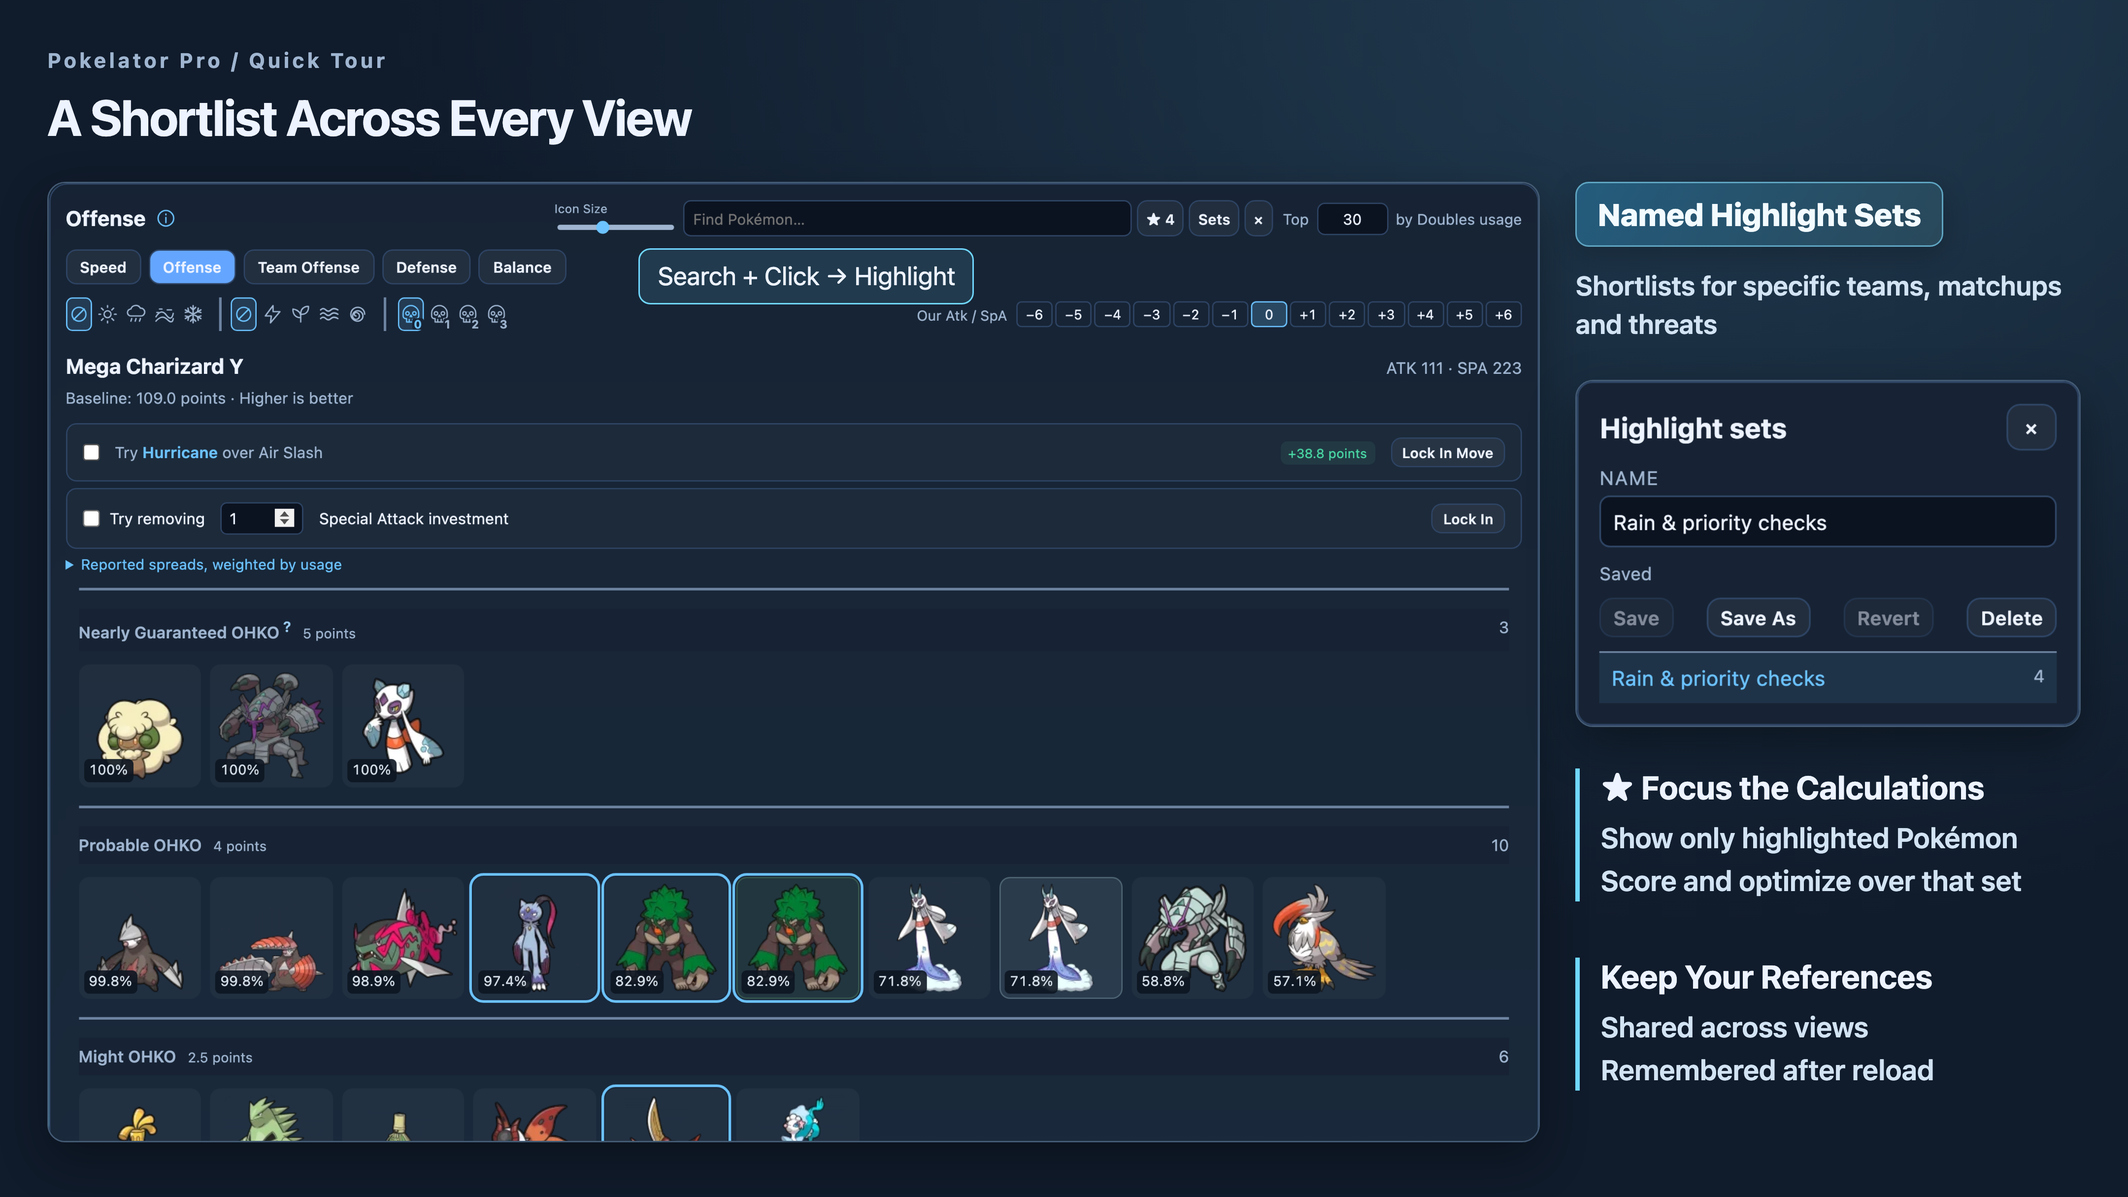
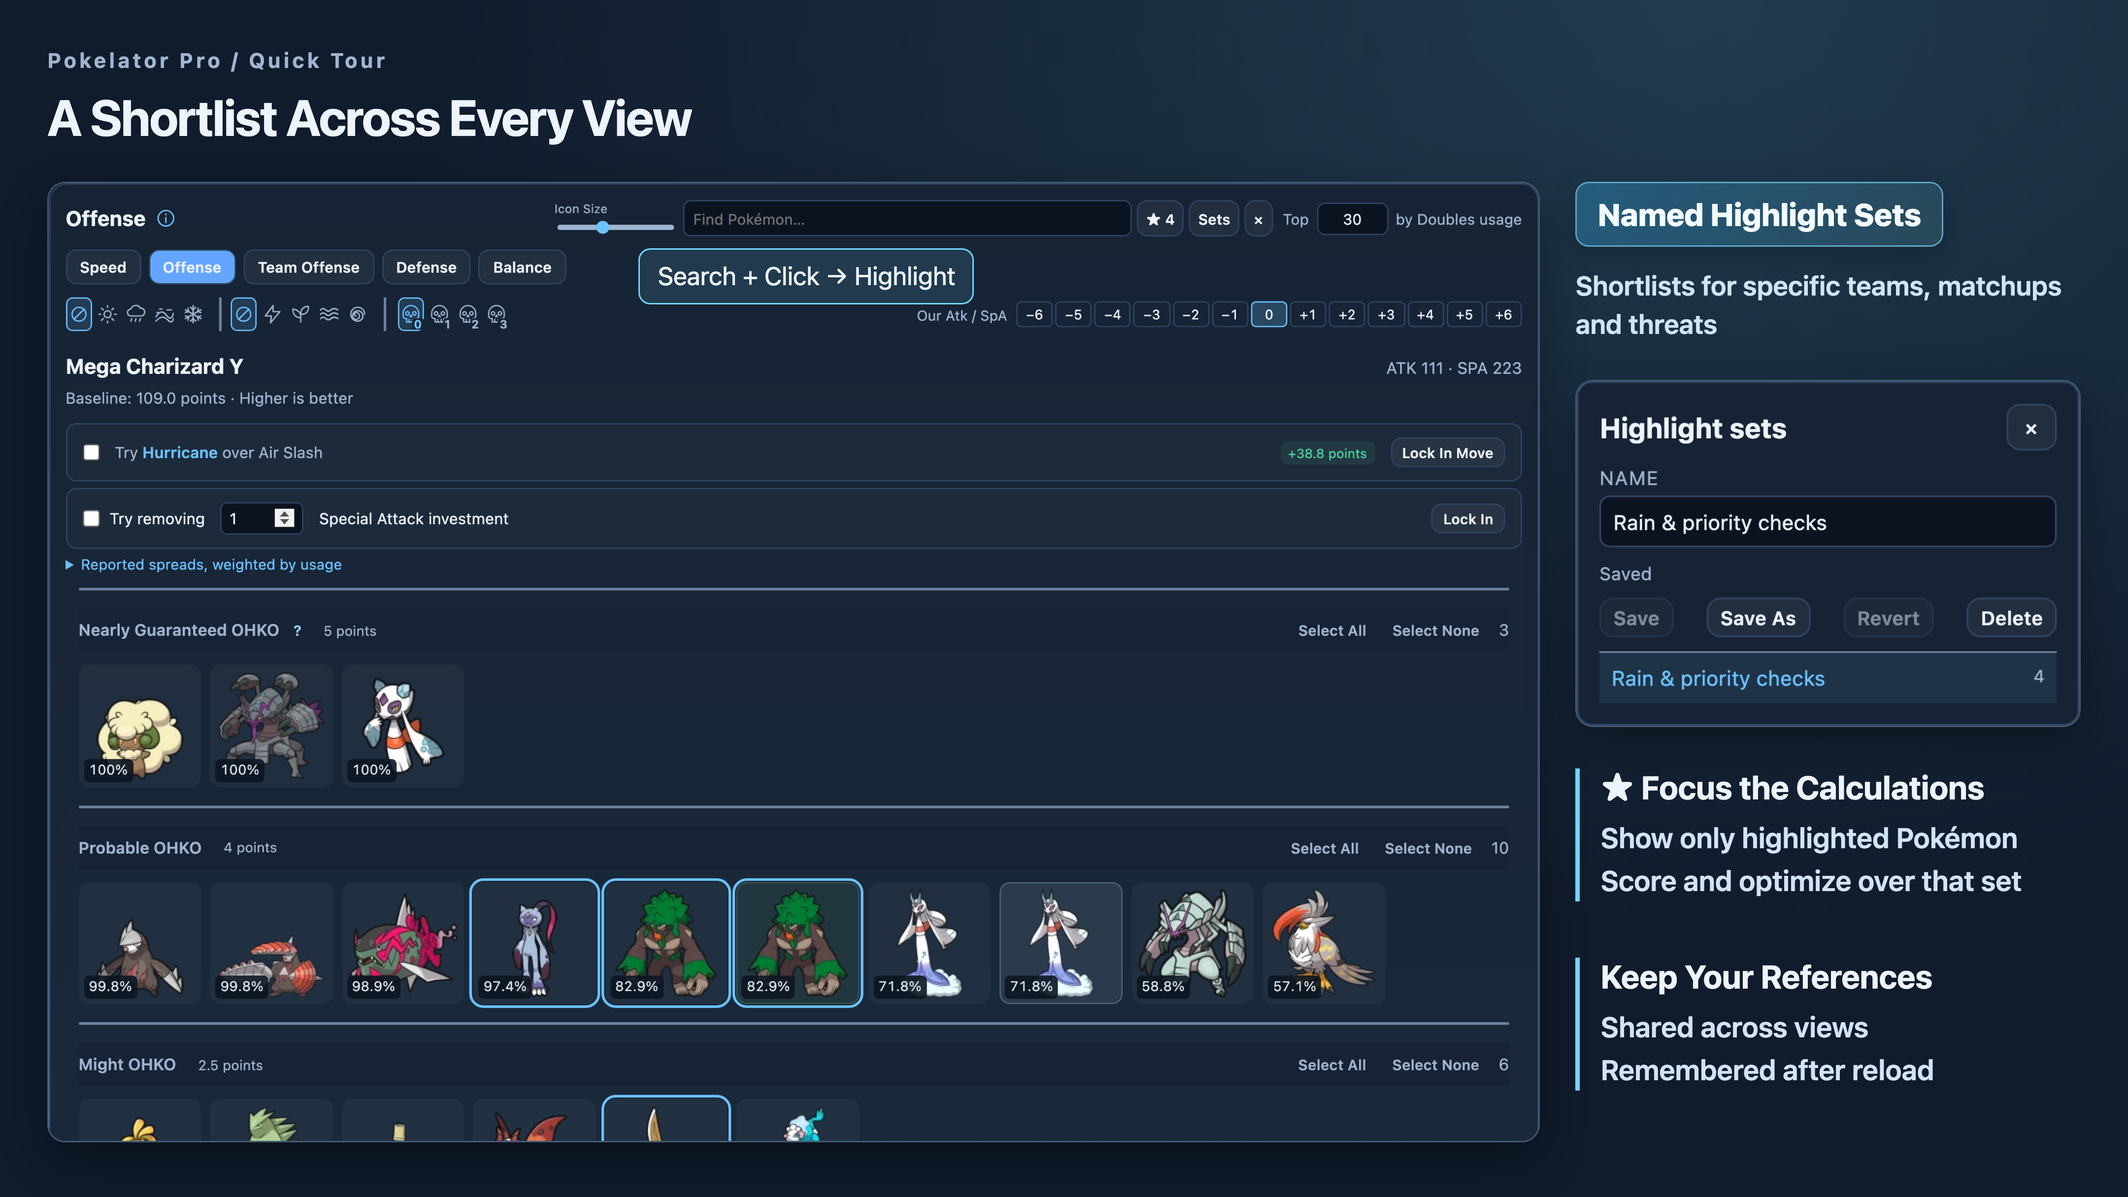
Add tier highlight selection and fix battle voice controls

diff --git a/app.js b/app.js
@@ -285,6 +285,9 @@ function builderRoster(selected, includeBaseMatches = true) {
 function referenceAttributes(id) {
   return `data-reference-id="${escapeHtml(id)}" role="button" tabindex="0" aria-pressed="${builderReferences.has(id)}"`;
 }
+function tierSelectionControls() {
+  return '<span class="tier-selection-controls"><button type="button" data-tier-select="all" title="Highlight every Pokémon in this tier">Select All</button><button type="button" data-tier-select="none" title="Remove highlights from this tier">Select None</button></span>';
+}
 function syncReferenceHighlights() {
   for(const icon of document.querySelectorAll('[data-reference-id]')) {
     const active=builderReferences.has(icon.dataset.referenceId);
@@ -338,6 +341,13 @@ function bindReferenceControls() {
     }});
   const panel=document.getElementById('teamBuilderPanel');
   panel.addEventListener('click',event=>{
+    const selection=event.target.closest('[data-tier-select]');
+    if(selection) {
+      const tier=selection.closest('.builder-tier-group,.builder-speed-tie');
+      const ids=[...tier.querySelectorAll('[data-reference-id]')].map(icon=>icon.dataset.referenceId);
+      updateReferences(()=>builderReferences.selectMany(ids,selection.dataset.tierSelect==='all'));
+      return;
+    }
     const icon=event.target.closest('[data-reference-id]');if(!icon) return;
     updateReferences(()=>builderReferences.toggle(icon.dataset.referenceId));
   });
@@ -2014,7 +2024,7 @@ function renderOffenseRows(rows,key,context = '',groups = Offense.groups) {
       return `<span class="tier-pokemon${builderReferences.has(member.species.id) ? ' reference-highlighted' : ''}${showChance && chance!==null ? ' has-ko-chance' : ''}${scenario?.active ? ` field-assumed field-${scenario.value.toLowerCase()}` : ''}${changed ? ` tier-changed ${better ? 'tier-improved' : 'tier-worsened'}` : ''}" ${referenceAttributes(member.species.id)} data-scenario-id="${escapeHtml(member.scenarioId || member.species.id)}" data-scenario-weight="${member.weight ?? 1}" ${scenario ? `data-field-active="${scenario.active}"` : ''} ${changed ? `data-baseline-tier="${changed}"` : ''} data-offense-species="${escapeHtml(member.species.id)}" ${state.builderPanel === 'defense' ? `data-defense-species="${escapeHtml(member.species.id)}"` : state.builderPanel === 'balance' ? `data-balance-species="${escapeHtml(member.species.id)}"` : ''} title="${escapeHtml(description)}">
         <img src="${getPokemonImage(member.species.name)}" alt="${escapeHtml(description)}" loading="lazy" />${winBadge}${chanceBadge}${thresholds.some(t=>t.text) ? `<span class="stat-thresholds">${thresholds.filter(t=>t.text).map(t=>`<span class="stat-threshold-badge" data-stat-threshold="${t.stat}">${escapeHtml(t.text)}</span>`).join('')}</span>` : ''}</span>`;
     }).join('');
-    return `<section class="builder-tier-group" data-offense-group="${group.kind}"><h3>${group.kind === 'guaranteed-ohko' ? 'Nearly Guaranteed OHKO<sup class="ko-caveat" tabindex="0" title="Based on reported statistical usage spreads, not the maximum possible bulk. Unreported builds may survive." aria-label="Based on usage spreads, not maximum possible bulk">?</sup>' : group.label}${state.builderPanel==='balance' ? '' : `<small class="tier-point-value">${Offense.points(group)} points</small>`}<span class="offense-tier-count">${members.length}</span></h3><div class="tier-icon-cloud">${icons}</div></section>`;
+    return `<section class="builder-tier-group" data-offense-group="${group.kind}"><h3>${group.kind === 'guaranteed-ohko' ? 'Nearly Guaranteed OHKO<sup class="ko-caveat" tabindex="0" title="Based on reported statistical usage spreads, not the maximum possible bulk. Unreported builds may survive." aria-label="Based on usage spreads, not maximum possible bulk">?</sup>' : group.label}${state.builderPanel==='balance' ? '' : `<small class="tier-point-value">${Offense.points(group)} points</small>`}${members.length ? tierSelectionControls() : ''}<span class="offense-tier-count">${members.length}</span></h3><div class="tier-icon-cloud">${icons}</div></section>`;
   }).join('');
   if (key !== offenseAnchorKey) { offenseAnchorKey = key; list.scrollTop = 0; }
   document.getElementById('builderOffenseContext').textContent = `${state.format} · Weather: ${state.weather || 'None'} · Terrain: ${state.terrain || 'None'}${context}`;
@@ -2471,12 +2481,12 @@ function renderTeamBuilder() {
       <img src="${getPokemonImage(member.species.name)}" alt="${escapeHtml(description)}" loading="lazy" />${badge}${chanceBadge}</span>`;
   };
   const cloud = members => members.length ? `<div class="tier-icon-cloud">${members.map(icon).join('')}</div>` : '';
-  const tie = members => `<section id="builderSpeedTie" class="builder-speed-tie" aria-label="Speed Tie, matching base Speed"><h3>Speed Tie <small>Base ${data.baseSpeed}</small></h3>${cloud(members)}</section>`;
+  const tie = members => `<section id="builderSpeedTie" class="builder-speed-tie" aria-label="Speed Tie, matching base Speed"><h3>Speed Tie <small>Base ${data.baseSpeed}</small>${tierSelectionControls()}</h3>${cloud(members)}</section>`;
   list.innerHTML = data.groups.filter(group => group.members.length).map(group => {
     const ties = group.members.filter(member => member.tie);
     const body = ties.length ? cloud(group.members.filter(member => member.baseSpeed > data.baseSpeed)) + tie(ties)
       + cloud(group.members.filter(member => member.baseSpeed < data.baseSpeed)) : cloud(group.members);
-    return `<section class="builder-tier-group" data-speed-group="${group.kind}"><h3>${group.label}</h3>${body}</section>`;
+    return `<section class="builder-tier-group" data-speed-group="${group.kind}"><h3>${group.label}${tierSelectionControls()}</h3>${body}</section>`;
   }).join('');
   const key = `${state.activeTeamId}:${state.activeOurIndex}:${species.id}:${data.target}:${state.format}:${state.builderTopN}`;
   if (key !== builderAnchorKey) {

diff --git a/components/tutorial.js b/components/tutorial.js
@@ -7,7 +7,7 @@
     {title:'Advanced Filtering',image:'filtering',alt:'An Attack boost and a physical Fire move with 75 or more power: two compact move requirements above actual matching Pokémon results.',caption:'Find Pokémon that meet several move requirements, then combine them with type, resistance and ability filters.'},
     {title:'Fast Matchup Answers',image:'battle',alt:'Actual Battle View with highlighted voice input and opponent selection, damage ranges, weather, terrain, abilities, items, stat stages and Speed comparisons, plus a real item tooltip labeled Hover When Confused!.',caption:'Add opponents by voice or search, then test battle conditions and modifiers. Hover When Confused!'},
     {title:'Smarter Stat Investments',image:'builder',alt:'Speed, Offense, Defense and Balance panels showing investment thresholds, move previews, defensive spread suggestions and one-on-one matchups.',caption:'Compare Speed, Offense, Team Offense, Defense and Balance, then lock in stronger moves and stat spreads.'},
-    {title:'Your Matchup Shortlists',image:'highlights',alt:'Highlighted opponent borders, Pokémon search, the highlighted-only filter and named highlight sets in Team Builder.',caption:'Click or search to highlight Pokémon across views, focus calculations on them, and save named sets to revisit.'}
+    {title:'Your Matchup Shortlists',image:'highlights',alt:'Highlighted opponent borders, Pokémon search, the highlighted-only filter and named highlight sets in Team Builder.',caption:'Highlight Pokémon individually or by tier, focus calculations on them, and save named sets to revisit.'}
   ];
   const dialog=document.createElement('dialog');
   dialog.id='tutorialDialog';dialog.className='tutorial-dialog';
@@ -24,7 +24,7 @@
   function render() {
     const slide=slides[current];
     title.textContent=slide.title;caption.textContent=slide.caption;
-    picture.src=`assets/tutorial/${slide.image}.png?v=20261124-voice-forms-release`;picture.alt=slide.alt;
+    picture.src=`assets/tutorial/${slide.image}.png?v=20261124-tier-selection-release`;picture.alt=slide.alt;
     previous.disabled=current===0;next.hidden=current===slides.length-1;done.hidden=current!==slides.length-1;
     dialog.querySelector('#tutorialProgress').textContent=`${current+1} / ${slides.length}`;
     dots.querySelectorAll('button').forEach((button,index)=>button.setAttribute('aria-current',String(index===current)));

diff --git a/styles.css b/styles.css
@@ -979,7 +979,7 @@ a { color: var(--accent); }
 .builder-assumptions p { line-height: 1.5; }
 .builder-assumptions[open] { max-height: 25vh; overflow-y: auto; }
 .builder-assumptions[open] summary { position: sticky; top: 0; z-index: 2; background: var(--panel); }
-.offense-tier-count { float: right; font-weight: 400; }
+.offense-tier-count { font-weight: 400; }
 .builder-move-trial { display: flex; align-items: center; flex-wrap: wrap; gap: 8px 12px; padding:10px 12px; margin-bottom:5px; border:1px solid var(--soft-border); border-radius:8px; background:rgba(255,255,255,0.025); color: var(--text); font-size: 0.75rem; }
 .builder-move-trial input { margin: 0; accent-color:var(--accent); }
 .builder-move-trial > label { display:inline-flex; align-items:center; gap:8px; }
@@ -994,6 +994,10 @@ a { color: var(--accent); }
 .builder-speed-tiers { flex: 1; min-height: 0; overflow-y: auto; overflow-x: hidden; overscroll-behavior: contain; scrollbar-gutter: stable; padding: 0 10px; }
 .builder-tier-group { padding: 14px 0; border-top: 2px solid var(--divider); }
 .builder-tier-group > h3 { position: sticky; top: 0; z-index: 1; margin: 0 0 10px; padding: 7px 0; background: var(--panel); font-size: 0.78rem; color: var(--muted); font-weight: 600; }
+.builder-tier-group > h3, .builder-speed-tie > h3 { display: flex; align-items: center; gap: 8px; flex-wrap: wrap; }
+.tier-selection-controls { display: inline-flex; gap: 6px; margin-left: auto; }
+.tier-selection-controls button { padding: 3px 7px; border: 1px solid var(--border); border-radius: 6px; background: transparent; color: var(--muted); font: inherit; font-size: 0.7rem; cursor: pointer; }
+.tier-selection-controls button:hover, .tier-selection-controls button:focus-visible { color: var(--accent); border-color: var(--accent); }
 .tier-icon-cloud { display: flex; flex-wrap: wrap; gap: 7px; min-width: 0; }
 .tier-pokemon { display: inline-flex; flex: 0 0 94.5px; width: 94.5px; height: 94.5px; align-items: center; justify-content: center; border-radius: 8px; background: rgba(255,255,255,0.035); }
 .tier-pokemon:hover { outline: 1px solid var(--accent); background: rgba(108,195,255,0.14); }

diff --git a/index.html b/index.html
@@ -6,7 +6,7 @@
     <title>Pokelator Pro</title>
     <link rel="icon" type="image/png" sizes="64x64" href="assets/branding/favicon.png?v=20261121-math-icon" />
     <link rel="apple-touch-icon" sizes="180x180" href="assets/branding/apple-touch-icon.png?v=20261121-math-icon" />
-    <link rel="stylesheet" href="styles.css?v=20261123-opponent-voice" />
+    <link rel="stylesheet" href="styles.css?v=20261124-tier-selection" />
   </head>
   <body>
     <div class="app-shell">
@@ -263,7 +263,7 @@
     <script src="data/move-types.js?v=20261120-champions-types"></script>
     <script src="data/balance-moves.js?v=20261123-categories"></script>
     <script src="components/move-summary.js?v=20261121-move-archetypes"></script>
-    <script src="components/reference-sets.js?v=20261121-reference-drafts"></script>
+    <script src="components/reference-sets.js?v=20261124-tier-selection"></script>
     <script src="components/priority-moves.js?v=20261123-distinct-moves"></script>
     <script src="components/move-filters.js?v=20261123-move-filters"></script>
     <script src="components/satisfying-moves.js?v=20261123-distinct-moves"></script>
@@ -276,7 +276,7 @@
     <script src="data/meta-usage.js?v=20261118-mega-toggle"></script>
     <script src="analytics.js?v=20261120-health-reports"></script>
     <script src="components/opponent-voice.js?v=20261123-opponent-voice"></script>
-    <script src="app.js?v=20261123-opponent-voice"></script>
+    <script src="app.js?v=20261124-tier-selection"></script>
     <script src="components/tutorial.js?v=20261123-advanced-filtering"></script>
     <script src="components/quick-tooltips.js?v=20261123-fast-hover"></script>
   </body>

diff --git a/components/opponent-voice.js b/components/opponent-voice.js
@@ -317,7 +317,7 @@
     keydown(event) {
       if(event.code!=='Space' || event.isComposing || event.ctrlKey || event.metaKey || event.altKey || !this.active() || this.disabled)return;
       const target=event.target;
-      if(target.closest('input,textarea,select,[contenteditable]:not([contenteditable="false"]),[role="textbox"]') || target.closest('button,a,summary') && target!==this.button || document.querySelector('dialog[open]'))return;
+      if(target.closest('input,textarea,select,[contenteditable]:not([contenteditable="false"]),[role="textbox"]') || document.querySelector('dialog[open]'))return;
       if(event.defaultPrevented)return;
       event.preventDefault();if(this.held || event.repeat)return;
       this.held=true;
@@ -377,7 +377,9 @@
       try {recognition.start();}catch(error){this.failed=true;this.session=null;this.want=null;this.say(`Speech recognition could not start (${error.name || 'unknown error'}). Click the microphone to try again.`);this.sync();}
     }
     stop() {
-      this.want=null;this.sync();const session=this.session;
+      this.want=null;
+      if(this.status.textContent==='Listening…')this.say('');
+      this.sync();const session=this.session;
       if(session && !session.stopping){session.stopping=true;try{session.recognition.stop();}catch{session.stopping=false;}}
     }
   }

diff --git a/components/reference-sets.js b/components/reference-sets.js
@@ -29,6 +29,11 @@
       this.save();
     }
     clear() {this.active.ids=[];this.only=false;this.save();}
+    selectMany(ids,selected) {
+      const next=new Set(this.active.ids);
+      for(const id of ids) if(this.valid.has(id)) {if(selected) next.add(id);else next.delete(id);}
+      this.active.ids=[...next];this.save();
+    }
     load(id) {
       if(this.sets.some(set=>set.id===id)) {
         this.activeId=id;this.draft={...this.saved,ids:[...this.saved.ids]};this.save();

diff --git a/tests/test_opponent_voice.py b/tests/test_opponent_voice.py
@@ -80,6 +80,37 @@ class OpponentVoiceTests(unittest.TestCase):
         self.assertEqual(self.evaluate('voiceTest.starts'),1)
         self.assertEqual(self.page.locator('#opponentVoiceButton').get_attribute('data-state'),'listening')
 
+    def test_space_hold_works_after_clear_and_outside_opponent_pane(self):
+        self.mock('granted');self.load();self.page.clock.install();self.page.clock.pause_at(1000000000000)
+        self.page.locator('#clearOpponentsButton').click()
+        for selector in ['#clearOpponentsButton','#battleViewButton','#metaModeToggle']:
+            with self.subTest(focus=selector):
+                self.page.locator(selector).focus()
+                starts=self.evaluate('voiceTest.starts')
+                self.page.keyboard.down('Space');self.page.clock.fast_forward(500)
+                self.assertEqual(self.evaluate('voiceTest.starts'),starts+1)
+                self.assertEqual(self.page.locator('#opponentVoiceStatus').inner_text(),'Listening…')
+                self.page.keyboard.up('Space')
+                self.assertEqual(self.page.locator('#opponentVoiceButton').get_attribute('data-state'),'idle')
+                self.assertFalse(self.page.locator('#opponentVoiceStatus').is_visible())
+
+    def test_click_stop_clears_listening_before_browser_end_and_can_restart(self):
+        self.mock('granted')
+        self.page.add_init_script('SpeechRecognition.prototype.stop=function(){voiceTest.stops++;};')
+        self.load();self.page.clock.install();self.page.clock.pause_at(1000000000000)
+        button=self.page.locator('#opponentVoiceButton')
+        button.click()
+        self.assertEqual(self.page.locator('#opponentVoiceStatus').inner_text(),'Listening…')
+        button.click()
+        self.assertEqual(button.get_attribute('data-state'),'idle')
+        self.assertFalse(self.page.locator('#opponentVoiceStatus').is_visible())
+        self.evaluate('voiceTest.sessions.at(-1).onend()')
+        self.page.clock.fast_forward(200)
+        self.assertEqual(self.evaluate('voiceTest.starts'),1)
+        button.click()
+        self.assertEqual(self.evaluate('voiceTest.starts'),2)
+        self.assertEqual(button.get_attribute('data-state'),'listening')
+
     def test_granted_space_hold_lights_up_and_release_stops(self):
         self.mock('granted');self.load();self.page.clock.install();self.page.clock.pause_at(1000000000000)
         self.page.keyboard.down('Space');self.page.clock.fast_forward(499)

diff --git a/tests/test_reference_sets.py b/tests/test_reference_sets.py
@@ -20,6 +20,22 @@ class ReferenceSetTests(unittest.TestCase):
         display=self.evaluate('name=>getPokemonByName(name).name',name)
         self.page.locator('#searchResults .choice-heading strong').filter(has_text=re.compile('^'+re.escape(display)+'$')).click()
 
+    def test_tier_selection_adds_and_removes_only_that_tier(self):
+        self.builder()
+        for panel in ['speed','offense','team-offense','defense','balance']:
+            with self.subTest(panel=panel):
+                self.evaluate("builderReferences.clear();builderReferences.toggle('Gogoat',true)")
+                self.page.locator(f'[data-builder-panel="{panel}"]').click()
+                self.page.wait_for_selector('.builder-tier-group [data-reference-id]:visible',timeout=30000)
+                tier=self.page.locator('.builder-tier-group:visible').filter(has=self.page.locator('[data-reference-id]')).first
+                ids=set(tier.locator('[data-reference-id]').evaluate_all('(icons)=>icons.map(icon=>icon.dataset.referenceId)'))
+                tier.locator(':scope > h3 [data-tier-select="all"]').click()
+                self.assertEqual(set(self.evaluate('builderReferences.active.ids')),ids|{'Gogoat'})
+                self.assertEqual(tier.locator('[data-reference-id][aria-pressed="false"]').count(),0)
+                tier.locator(':scope > h3 [data-tier-select="none"]').click()
+                self.assertEqual(set(self.evaluate('builderReferences.active.ids')),{'Gogoat'}-ids)
+                self.assertEqual(tier.locator('[data-reference-id][aria-pressed="true"]').count(),0)
+
     def test_keyboard_search_outside_top_n_and_shared_highlights_in_all_views(self):
         self.builder()
         self.assertFalse(self.evaluate("builderRoster(getPokemonByName(state.ourTeam[0].name)).some(p=>p.id==='Gogoat')"))
